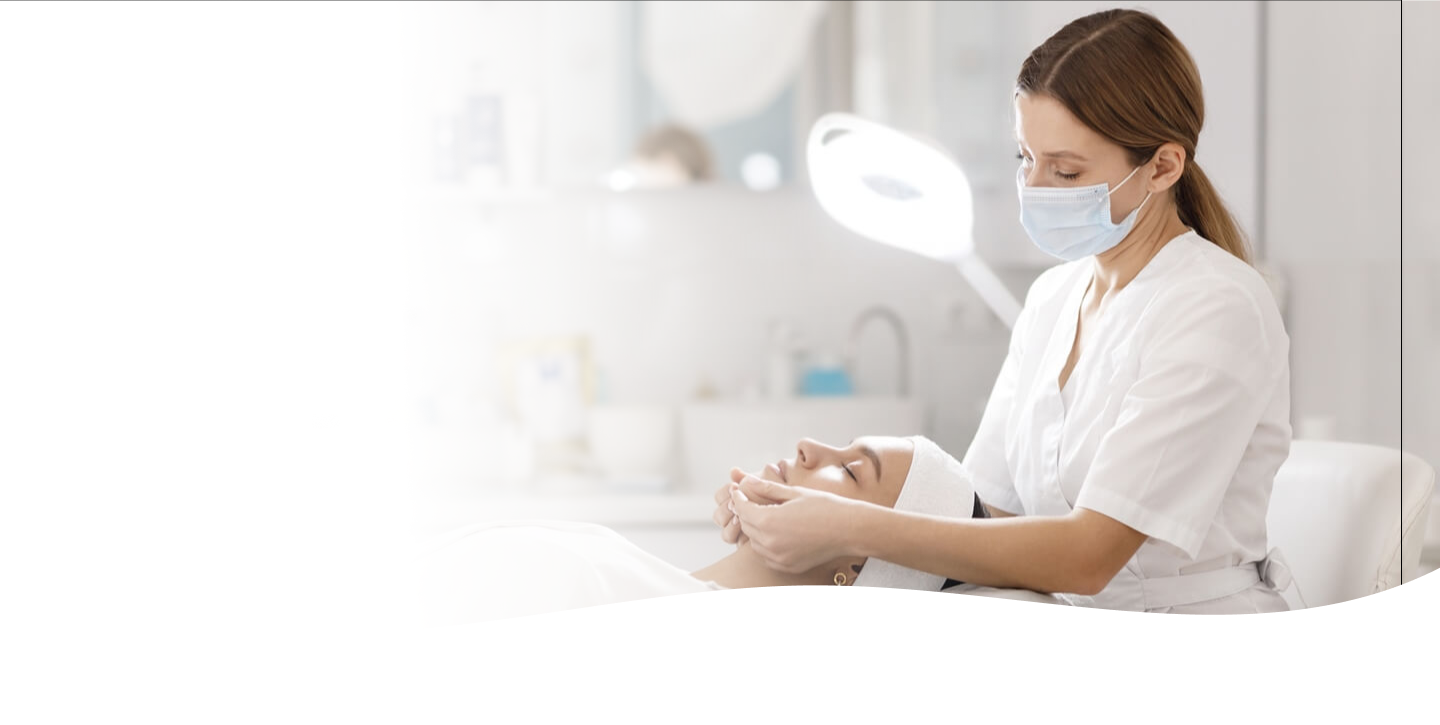
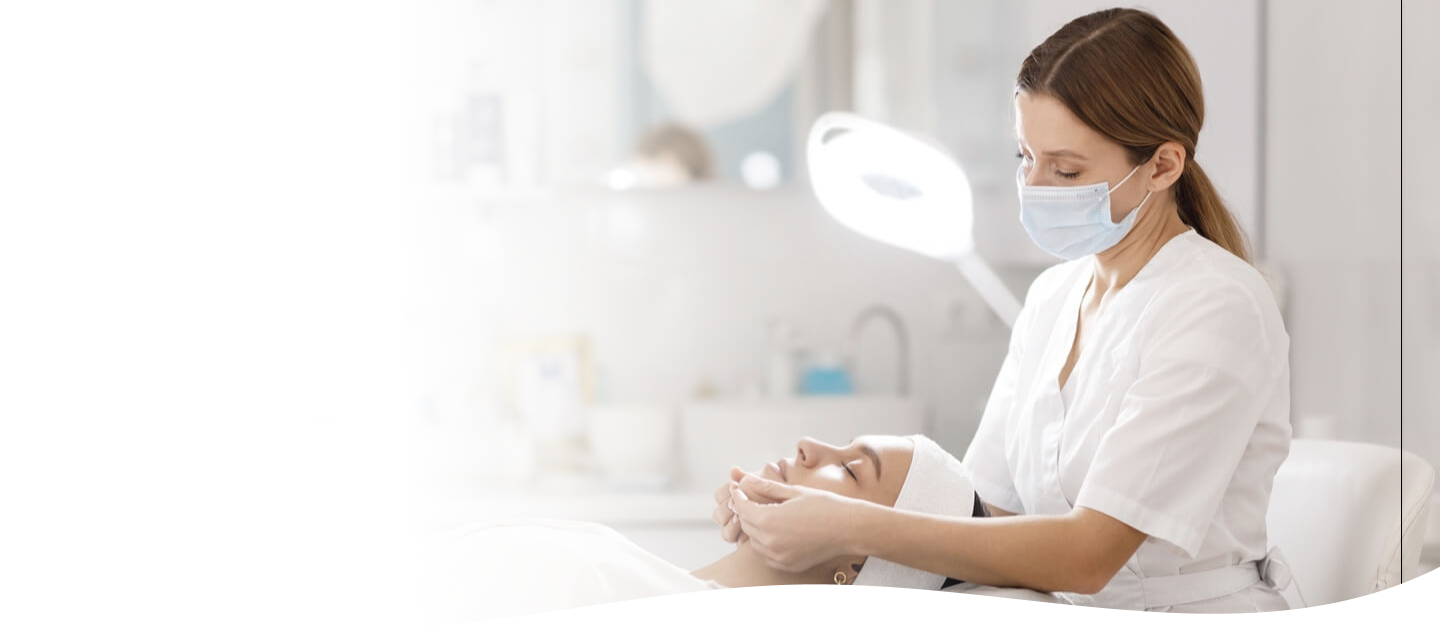
adaptive img hero-section

diff --git a/css/main.css b/css/main.css
@@ -137,8 +137,14 @@ a {
   padding: 124px 0 127px;
   background-image: url("/images/woman-doc.png");
   background-repeat: no-repeat;
+  background-size: contain;
   background-position-x: right;
   background-position-y: center;
+}
+@media screen and (min-device-pixel-ratio: 2), (-webkit-min-device-pixel-ratio: 2), (min-resolution: 192dpi), (min-resolution: 2dppx) {
+  .hero-section {
+    background-image: url("/images/woman-doc@2x.png");
+  }
 }
 .hero-section__title {
   margin-bottom: 40px;

diff --git a/scss/components/_hero-section.scss b/scss/components/_hero-section.scss
@@ -2,8 +2,16 @@
   padding: 124px 0 127px;
   background-image: url("/images/woman-doc.png");
   background-repeat: no-repeat;
+  background-size: contain;
   background-position-x: right;
   background-position-y: center;
+
+  @media screen and (min-device-pixel-ratio: 2),
+    (-webkit-min-device-pixel-ratio: 2),
+    (min-resolution: 192dpi),
+    (min-resolution: 2dppx) {
+    background-image: url("/images/woman-doc@2x.png");
+  }
 
   &__title {
     margin-bottom: 40px;
